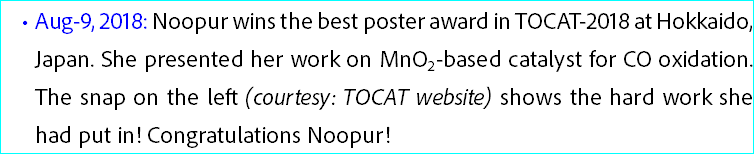
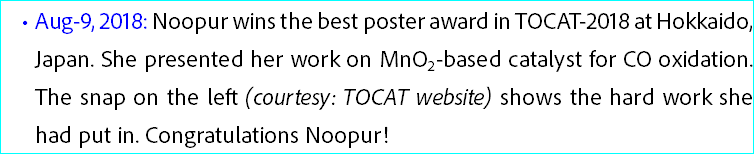
Ravishankar Group Webpage

Changed region(s): [[0.183, 0.8052, 0.5186, 0.961]]

diff --git a/in-the-news.html b/in-the-news.html
@@ -11,7 +11,7 @@
   <title>In the News</title>
   <!-- CSS -->
   <link rel="stylesheet" type="text/css" href="css/site_global.css?494395278"/>
-  <link rel="stylesheet" type="text/css" href="css/in-the-news.css?287483337" id="pagesheet"/>
+  <link rel="stylesheet" type="text/css" href="css/in-the-news.css?4131605900" id="pagesheet"/>
   <!-- Other scripts -->
   <script type="text/javascript">
    document.documentElement.className += ' js';
@@ -71,7 +71,7 @@
      <div class="clip_frame grpelem" id="u7600"><!-- image -->
       <img class="block" id="u7600_img" src="images/tocat-noopur.jpg" alt="" width="257" height="257"/>
      </div>
-     <img class="grpelem" id="u7599-14" alt="Aug-9, 2018: Noopur wins the best poster award in TOCAT-2018 at Hokkaido, Japan. She presented her work on MnO2-based catalyst for CO oxidation. The snap on the left (courtesy: TOCAT website) shows the hard work she had put in! Congratulations Noopur! " width="754" height="154" src="images/u7599-14.png"/><!-- rasterized frame -->
+     <img class="grpelem" id="u7599-14" alt="Aug-9, 2018: Noopur wins the best poster award in TOCAT-2018 at Hokkaido, Japan. She presented her work on MnO2-based catalyst for CO oxidation. The snap on the left (courtesy: TOCAT website) shows the hard work she had put in. Congratulations Noopur! " width="754" height="154" src="images/u7599-14.png"/><!-- rasterized frame -->
     </div>
     <div class="clearfix colelem" id="pu7606"><!-- group -->
      <div class="clip_frame clearfix grpelem" id="u7606"><!-- image -->
@@ -86,6 +86,12 @@
       <img class="block" id="u7628_img" src="images/shwetha-germany-crop-u7628.jpg" alt="" width="214" height="285"/>
      </div>
      <img class="grpelem" id="u7634-6" alt="Oct-Nov, 2018: Shwetha went to Kiel, Germany (Technische Fakultät, CAU-Kiel) on a research visit in Prof. Dr. rer. nat. Rainer Adelung's group for a month! here is a snap of Shwetha at Kiel. She tells us that she had a good time there!" width="797" height="121" src="images/u7634-6.png"/><!-- rasterized frame -->
+    </div>
+    <div class="clearfix colelem" id="pu7636"><!-- group -->
+     <div class="clip_frame grpelem" id="u7636"><!-- image -->
+      <img class="block" id="u7636_img" src="images/debadarshini-ws-2018.jpg" alt="" width="420" height="315"/>
+     </div>
+     <img class="grpelem" id="u7642-8" alt="Dec-7, 2018: Debadarshini wins the best poster award in the International Winter School (JNCASR, Bangalore). Here is a snap. Congratulations Debadarshini! " width="594" height="121" src="images/u7642-8.png"/><!-- rasterized frame -->
     </div>
     <div class="clearfix colelem" id="pu7619"><!-- group -->
      <div class="clip_frame clearfix grpelem" id="u7619"><!-- image -->

diff --git a/css/in-the-news.css b/css/in-the-news.css
@@ -1,7 +1,7 @@
 .version.in_the_news /* version checker */
 {
-	color: #000011;
-	background-color: #22A5C9;
+	color: #0000F6;
+	background-color: #434D8C;
 }
 
 .html
@@ -13,7 +13,7 @@
 {
 	z-index: 1;
 	width: 1020px;
-	min-height: 2454.950000000004px;
+	min-height: 2804.950000000005px;
 	background-image: none;
 	border-style: none;
 	border-color: #000000;
@@ -441,15 +441,15 @@
 {
 	z-index: 76;
 	width: 453px;
-	border-width: 1px;
+	border-width: 2px;
 	border-style: solid;
 	border-color: #000000;
 	background-color: transparent;
-	margin-bottom: -1px;
+	margin-bottom: -2px;
 	position: relative;
 	margin-right: -10000px;
-	margin-top: 249px;
-	left: -1px;
+	margin-top: 248px;
+	left: -2px;
 }
 
 #u7600
@@ -478,19 +478,25 @@
 	left: 267px;
 }
 
+#pu7600,#pu7606
+{
+	width: 0.01px;
+	margin-top: 47px;
+}
+
 #u7606
 {
 	z-index: 94;
 	width: 420px;
-	border-width: 1px;
+	border-width: 2px;
 	border-style: solid;
 	border-color: #000000;
 	background-color: transparent;
-	margin-bottom: -1px;
+	margin-bottom: -2px;
 	position: relative;
 	margin-right: -10000px;
-	margin-top: -1px;
-	left: -1px;
+	margin-top: -2px;
+	left: -2px;
 }
 
 #u7606_clip
@@ -551,25 +557,58 @@
 	left: 223px;
 }
 
-#pu7600,#pu7606,#pu7619
+#pu7636
 {
 	width: 0.01px;
+	margin-left: 2px;
 	margin-top: 47px;
+}
+
+#u7636
+{
+	z-index: 118;
+	width: 420px;
+	border-width: 2px;
+	border-style: solid;
+	border-color: #000000;
+	background-color: transparent;
+	margin-bottom: -2px;
+	position: relative;
+	margin-right: -10000px;
+	margin-top: -2px;
+	left: -2px;
+}
+
+#u7642-8
+{
+	z-index: 120;
+	display: block;
+	vertical-align: top;
+	position: relative;
+	margin-right: -10000px;
+	margin-top: 87px;
+	left: 424px;
+}
+
+#pu7619
+{
+	width: 0.01px;
+	margin-top: 59px;
 }
 
 #u7619
 {
 	z-index: 102;
 	width: 420px;
-	border-width: 1px;
+	border-width: 2px;
 	border-style: solid;
 	border-color: #000000;
 	background-color: transparent;
-	margin-bottom: -1px;
+	margin-bottom: -2px;
 	position: relative;
 	margin-right: -10000px;
-	margin-top: -1px;
-	left: -1px;
+	margin-top: -2px;
+	left: -2px;
 }
 
 #u7619_clip
@@ -591,14 +630,14 @@
 	vertical-align: top;
 	position: relative;
 	margin-right: -10000px;
-	margin-top: 67px;
-	left: 431px;
+	margin-top: 64px;
+	left: 429px;
 }
 
 #u4757-6
 {
 	z-index: 46;
-	margin-top: 68px;
+	margin-top: 44px;
 	position: relative;
 }
 
